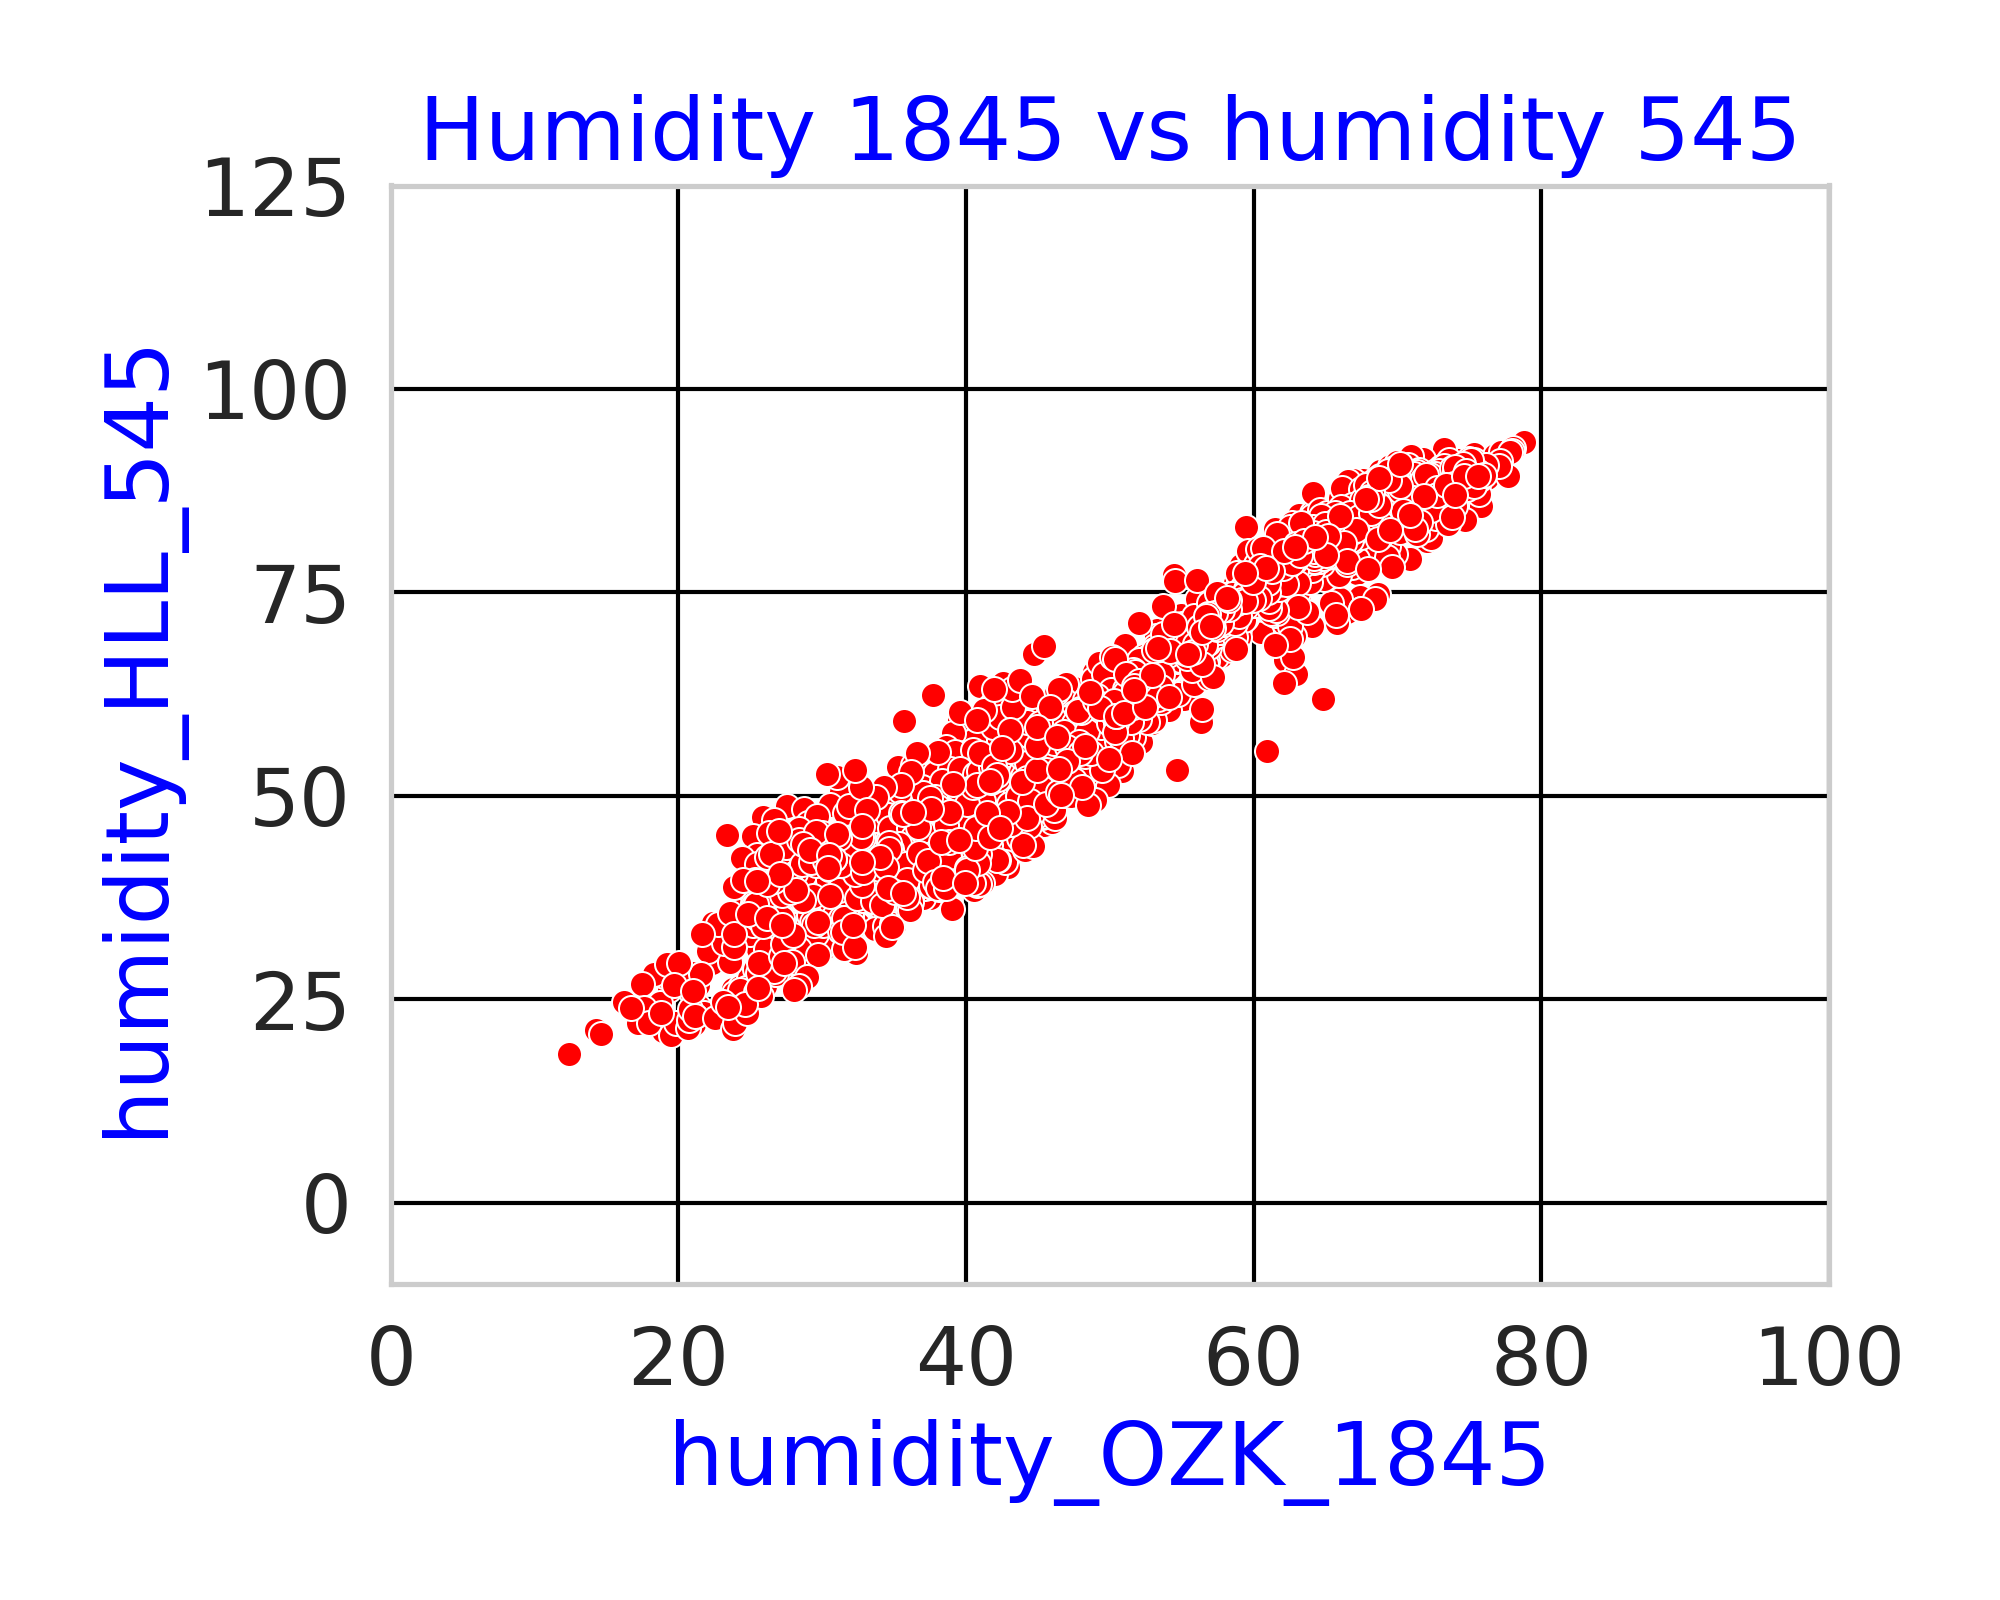
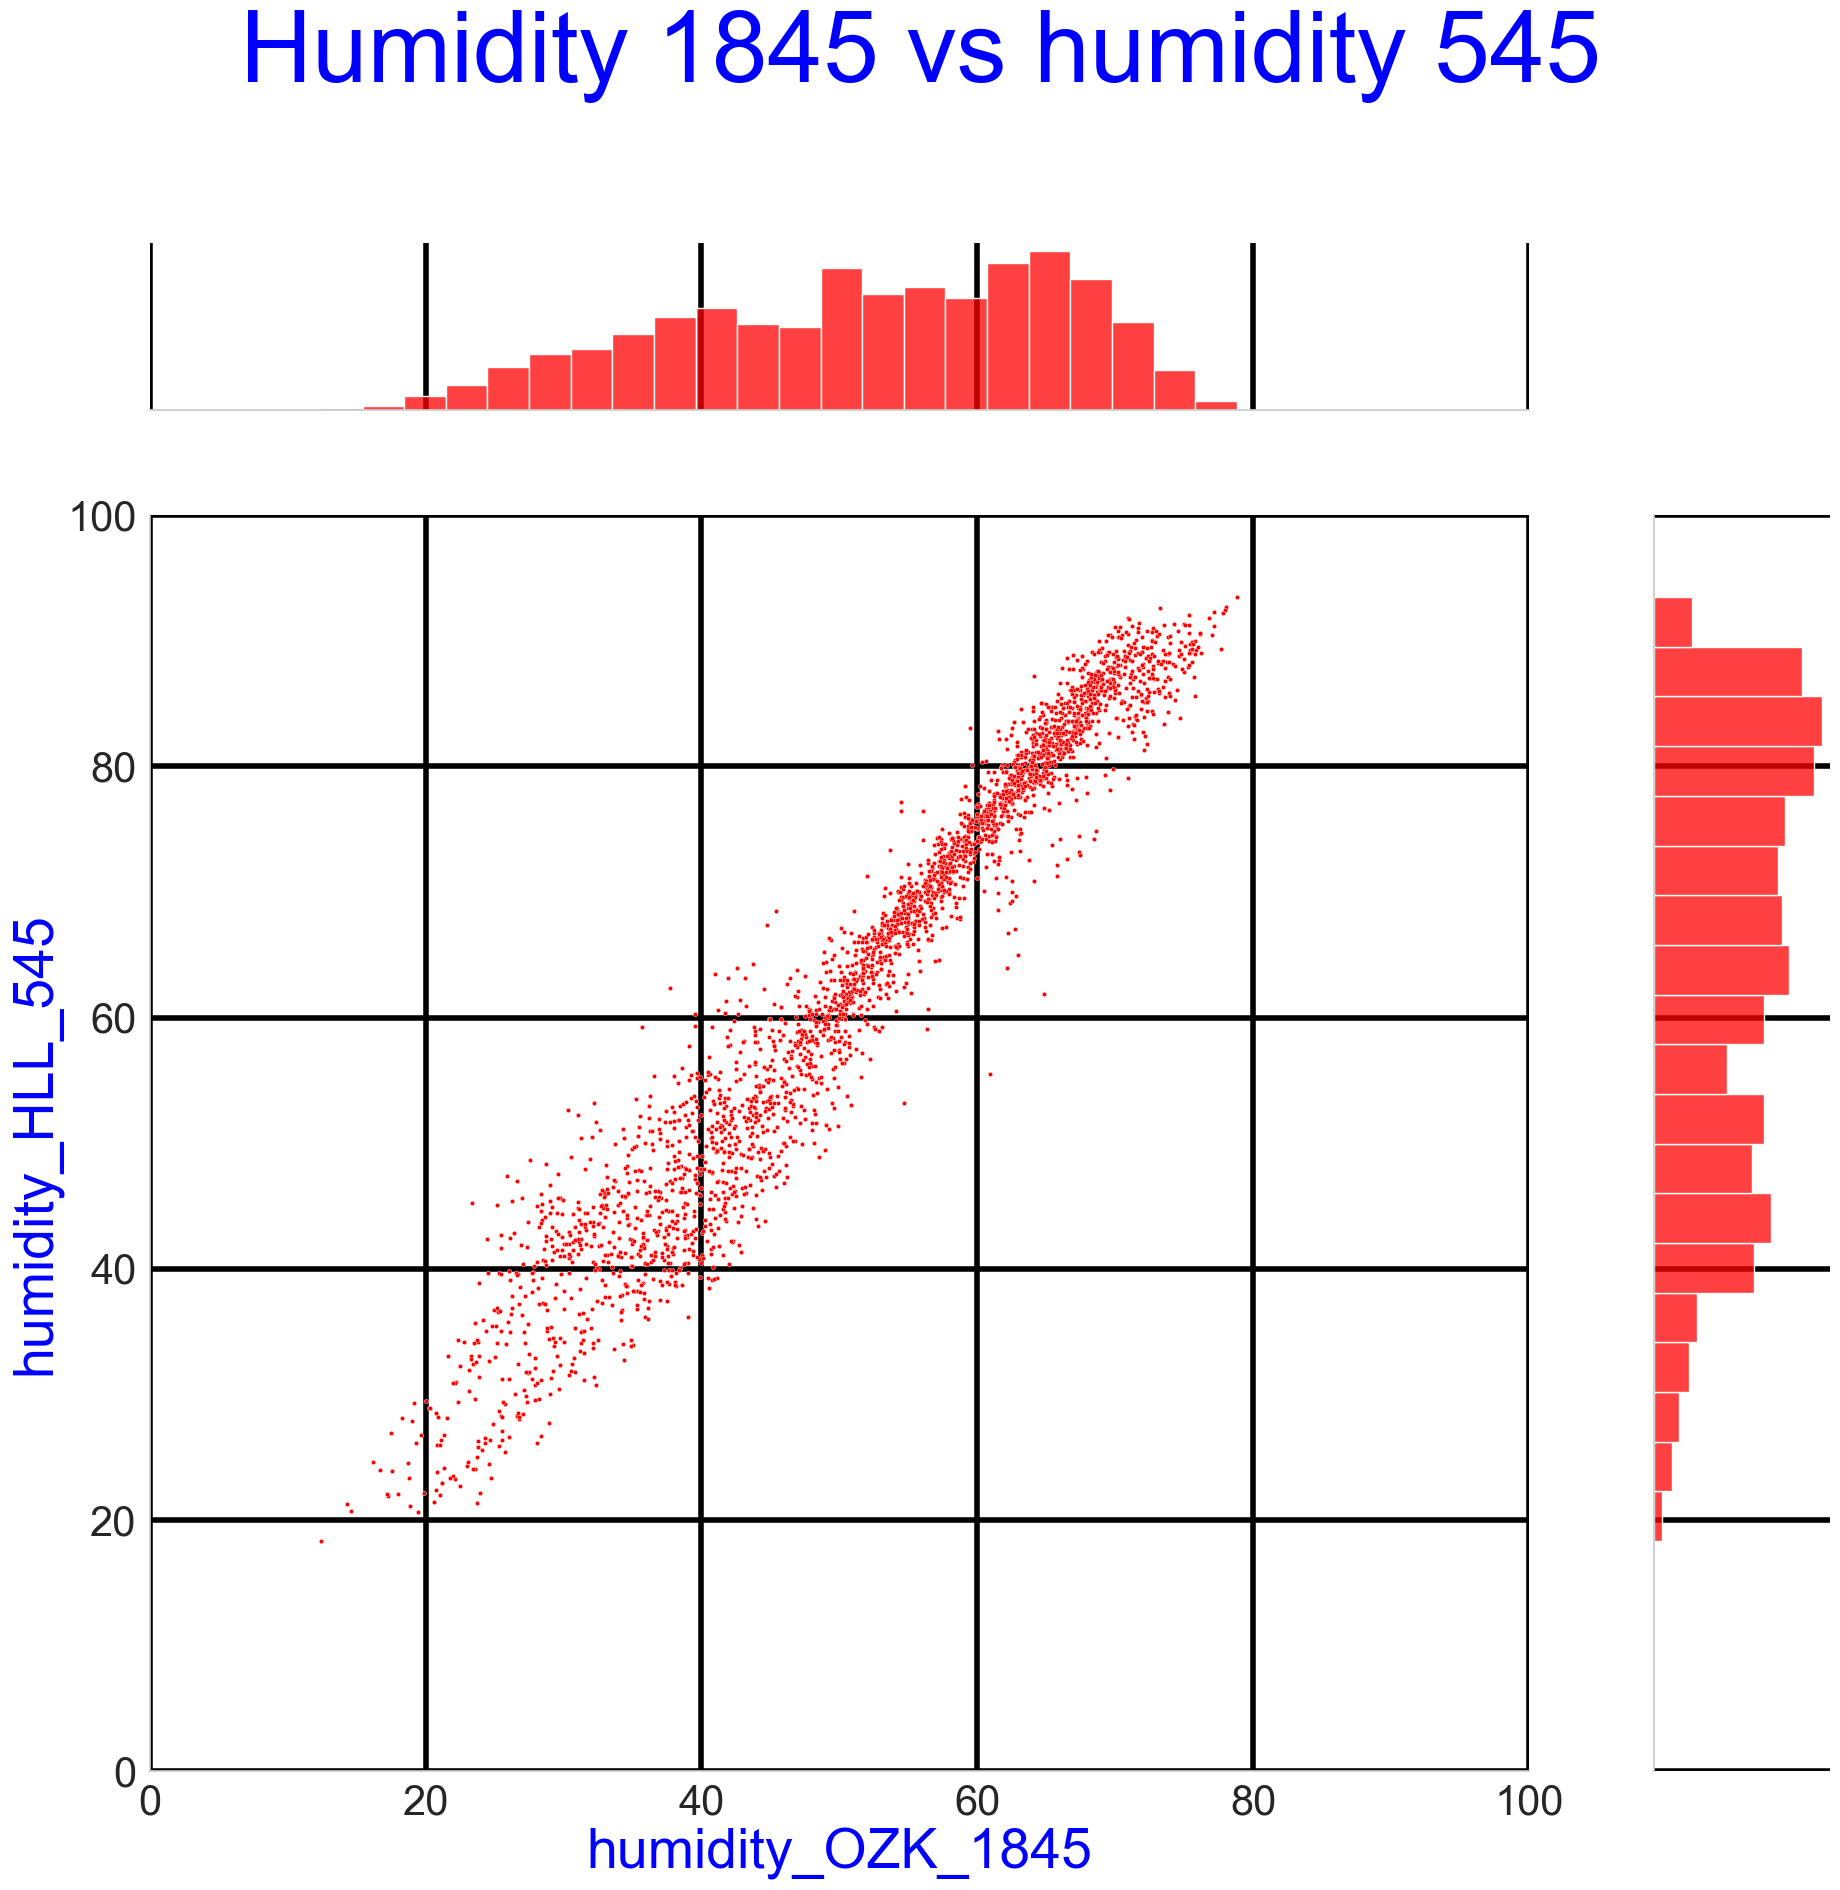
staartje klaar

diff --git a/python/projects/staartje-20231003/Projectanalyzer.py b/python/projects/staartje-20231003/Projectanalyzer.py
@@ -120,6 +120,11 @@ def diff_1845_NL(aRow):
     low = aRow["pm25_NL49570"]
     return high - low
 
+def highhumidity(aRow):
+    humidity = aRow["humidity_HLL_545"]
+    return humidity > 80
+
+
 
 # add columns:
 #   pm25_diff_WE
@@ -137,6 +142,8 @@ def augmentSuperframe():
     superFrame["pm25_diff_1845_NL"] = superFrame.apply(diff_1845_NL, axis=1)
     superFrame["pm25_diff_1850_NL"] = superFrame.apply(diff_1850_NL, axis=1)
     superFrame["pm25_diff_545_549"] = superFrame.apply(diff_545_549, axis=1)
+    superFrame["highhumidity"] = superFrame.apply(highhumidity, axis=1)
+
 
     superFrameAugmented = superFrame.copy()
     #superFrameAugmented.to_csv(projectdir + "/superFrameAugmented.csv", index=False)
@@ -146,6 +153,8 @@ def augmentSuperframe():
 
 def runit():
     global superFrameAugmented
+    global HLL_545
+    global HLL_549
 
     allSensorsText = ["NL49570", "HLL_545", "HLL_549", "OZK_1845", "OZK_1850"]
     allSensors = convertTextToDataFrame(allSensorsText)
@@ -154,10 +163,52 @@ def runit():
     createSuperFrame(allSensorsText, KNMI_225)
     augmentSuperframe()
 
+
+    simpleScatterPlot(superFrameAugmented, x="pm25_NL49570", y="pm25_HLL_545",
+                      xlim=(-5, 25), ylim=(-5, 25), title="Scatterplot NL - 545 (detail)",
+                      filename=projectdir+"/scatter-NL-545", dotsize=20)
+    return
     simpleScatterPlot(superFrameAugmented, x="humidity_HLL_545", y="pm25_HLL_545",
                       xlim=(0, 100), ylim=(-10, 125), title="Humidity 545 vs pm25 545",
                       filename=projectdir+"/5-humidity-pm25-545")
 
+    simpleScatterPlot(superFrameAugmented, x="humidity_HLL_545", y="pm25_NL49570",
+                      xlim=(0, 100), ylim=(-10, 125), title="Humidity 545 vs pm25 NL",
+                      filename=projectdir+"/5-humidity-pm25-NL")
+
+    simpleScatterPlot(superFrameAugmented, x="humidity_HLL_545", y="pm25_OZK_1845",
+                      xlim=(0, 100), ylim=(-10, 125), title="Humidity 545 vs pm25 1845",
+                      filename=projectdir+"/5-humidity-pm25-1845")
+
+    simpleScatterPlot(superFrameAugmented, x="humidity_OZK_1845", y="pm25_OZK_1845",
+                      xlim=(0, 100), ylim=(-10, 125), title="Humidity 1845 vs pm25 1845",
+                      filename=projectdir+"/5-humidity-pm25-1845")
+
+    simpleJointPlot(superFrameAugmented, x="humidity_OZK_1845", y="humidity_HLL_545",
+                      xlim=(0, 100), ylim=(0, 100), title="Humidity 1845 vs humidity 545",
+                      filename=projectdir+"/5-humidity-1845-humidity-545", dotsize=10)
+
+
+    simpleJointPlot(superFrameAugmented, x="pm25_NL49570", y="pm25_HLL_545",
+                      xlim=(-5, 40), ylim=(-5, 40), title="Scatterplot NL - 545",
+                      filename=projectdir+"/scatter-NL-545", dotsize=60, hue="highhumidity")
+
+    diffPlot(HLL_545, HLL_549, attr="pm25", title="Difference 545 vs 549", xlim=(-2.5, 2.5),
+             filename=projectdir+"/1-HLL-diffplot")
+
+    superFrameAugmented=superFrameAugmented[superFrameAugmented["humidity_HLL_545"] < 80.0]
+
+    simpleJointPlot(superFrameAugmented, x="pm25_NL49570", y="pm25_HLL_545",
+                      xlim=(-5, 40), ylim=(-5, 40), title="Scatterplot NL - 545, humidity < 80",
+                      filename=projectdir+"/scatter-NL-545-humidityless80", dotsize=20)
+
+    HLL_545 = HLL_545[HLL_545["humidity"] < 80]
+    HLL_549 = HLL_549[HLL_549["humidity"] < 80]
+
+    diffPlot(HLL_545, HLL_549, attr="pm25", title="Difference 545 vs 549 humidity < 80", xlim=(-2.5, 2.5),
+             filename=projectdir + "/1-HLL-diffplot-humidityless80")
+
+    return
     simpleScatterPlot(superFrameAugmented, x="humidity_HLL_545", y="pm25_diff_545_NL",
                       xlim=(0, 100), ylim=(-80, 80), title="Humidity 545 vs Diff pm25 545",
                       filename=projectdir+"/5-humidity-pm25-diff-545")
@@ -166,9 +217,6 @@ def runit():
                       xlim=(0, 100), ylim=(-10, 125), title="Humidity 545 vs pm25 1845",
                       filename=projectdir+"/5-humidity-pm25-1845")
 
-    simpleScatterPlot(superFrameAugmented, x="humidity_HLL_545", y="pm25_NL49570",
-                      xlim=(0, 100), ylim=(-10, 125), title="Humidity 545 vs pm25 NL",
-                      filename=projectdir+"/5-humidity-pm25-NL")
 
     simpleScatterPlot(superFrameAugmented, x="humidity_OZK_1845", y="pm25_OZK_1845",
                       xlim=(0, 100), ylim=(-10, 125), title="Humidity 1845 vs pm25 1845",
@@ -177,8 +225,6 @@ def runit():
     simpleScatterPlot(superFrameAugmented, x="humidity_OZK_1845", y="humidity_HLL_545",
                       xlim=(0, 100), ylim=(-10, 125), title="Humidity 1845 vs humidity 545",
                       filename=projectdir+"/5-humidity-1845-humidity-545")
-
-    return
 
     simpleJointPlot(superFrameAugmented, x="pm25_NL49570", y="pm25_HLL_545",
                       xlim=(-10, 50), ylim=(-20, 40), title="LML Absolute vs 545",
@@ -226,7 +272,7 @@ def runit():
 
     simpleScatterPlot(superFrameAugmented, x="windspeed", y="pm25_diff_545_549",
                       xlim=(0, 30), ylim=(-50, 80), title="Windspeed vs difference 545 - 549",
-                      filename=projectdir+"/4-windspeed-545-549")
+                      filename=projectdir+"/4`-windspeed-545-549")
 
 
 #    attrPlot(superFrameAugmented, "pm25_diff_545_NL", binwidth=0.25, xlim=(-20, 60), describe=True)

diff --git a/python/plotter.py b/python/plotter.py
@@ -39,15 +39,14 @@ def setPlotSizeLandscape():
     plt.figure(figsize=(2000 / my_dpi, 1600 / my_dpi), dpi=my_dpi)
 
 def simpleScatterPlot(aDataFrame, x, y,  xlim=(-40.0, 40.0), ylim=(-40.0, 40.0), title="Scatterplot", filename=False,
-                      describe=False):
+                      describe=False, dotsize=3):
     # same length on x and y, assume square, otherwise landscape
     if (xlim[1]-xlim[0]) == (ylim[1]-ylim[0]):
         setPlotSizeSquare()
     else:
         setPlotSizeLandscape()
 
-    scatter = sns.scatterplot(aDataFrame, x=x, y=y)
-#    scatter = sns.jointplot(aDataFrame, x=x, y=y)
+    scatter = sns.scatterplot(aDataFrame, x=x, y=y, s=dotsize)
 
     scatter.set(title=title)
     scatter.set(xlim=xlim)
@@ -62,7 +61,7 @@ def simpleScatterPlot(aDataFrame, x, y,  xlim=(-40.0, 40.0), ylim=(-40.0, 40.0),
         scatter.get_figure().savefig(filename)
 
 def simpleJointPlot(aDataFrame, x, y,  xlim=(-40.0, 40.0), ylim=(-40.0, 40.0), title="Scatterplot", filename=False,
-                      describe=False):
+                      describe=False, dotsize=3, hue=None):
 
     a = sns.plotting_context()
     sns.set_context(rc={"font.size": 60,
@@ -74,7 +73,8 @@ def simpleJointPlot(aDataFrame, x, y,  xlim=(-40.0, 40.0), ylim=(-40.0, 40.0), t
 
     scatter = sns.jointplot(aDataFrame, x=x, y=y,
                             xlim=xlim, ylim=ylim,
-                            height=20, dropna=False)
+                            height=20, dropna=True,
+                            s=dotsize, hue=hue)
     scatter.fig.suptitle(title)
     plt.tight_layout()
     plt.show()
@@ -84,17 +84,17 @@ def simpleJointPlot(aDataFrame, x, y,  xlim=(-40.0, 40.0), ylim=(-40.0, 40.0), t
         print("---")
     if filename:
         scatter.savefig(filename)
-
+    sns.set_context(rc=a)
 
 def simpleStripPlot(aDataFrame, x, y,  xlim=(-40.0, 40.0), ylim=(-40.0, 40.0), title="Scatterplot", filename=False,
-                      describe=False):
+                      describe=False, jitter=0.2):
     # same length on x and y, assume square, otherwise landscape
     if (xlim[1]-xlim[0]) == (ylim[1]-ylim[0]):
         setPlotSizeSquare()
     else:
         setPlotSizeLandscape()
 
-    scatter = sns.stripplot(aDataFrame, x=x, y=y, size=1, jitter=0.2)
+    scatter = sns.stripplot(aDataFrame, x=x, y=y, size=1, jitter=jitter)
 
     scatter.set(title=title)
     scatter.set(xlim=xlim)
